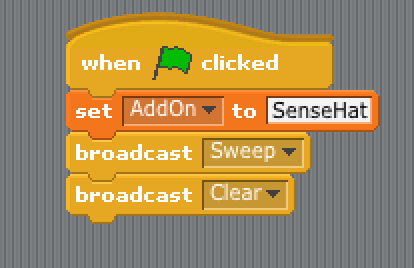
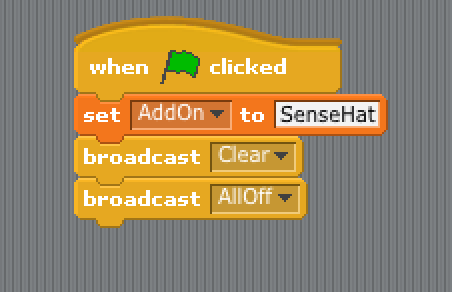
completed the worksheet
Made added all necessary pictures and finished the worksheet aka read.md

Changed region(s): [[0.1449, 0.0299, 0.9275, 0.8358]]

diff --git a/README.md b/README.md
@@ -19,7 +19,7 @@ We won't be using any of the right hand side, with the exception of the flag but
 ## Lets test our sense hat
 Will start of by testing our sense hat to make sure it's been connected alright and it's working fine. By doing this we will also learn how to setup the sense hat on scratch.
 
-1. Click on the Block Palette and select **Control**
+1. Click on the **Block Palette** and select **Control**
 2. Next drag a **When green flag clicked** block and place it on the scripts area in the middle of the screen.
 3. Click on the the Block Palette and select **Vriables**
 ![](pics/clickVarBlock.png)
@@ -33,9 +33,13 @@ Will start of by testing our sense hat to make sure it's been connected alright 
 Congrats You've just set up the sense hat on scratch. You should have something like this on your screen
 ![sense hat setup](pics/senseHatSetup.png)
 
+Lets explain variables real quick. Think of variables as boxes that you put things inside. You can Put in a number or a word so you can use it later.
+In this case we told Scratch that we where using the Sense Hat by giving a variable the word SenseHat.
+Whats inside a variable can be changed at any time with the set **block**
+
 Now lets test the sense hat.
 
-1. Click on the Block Palette and select **Control** again
+1. Click on the **Block Palette** and select **Control** again
 2. This time we are selecting the **broadcast** block and connecting it to the **set** block
 3. Now click on the **little black arrow** at the end of the broadcast block and click on **new...**
 ![Creating a new broadcast](pics/newBroadcast.png)
@@ -46,8 +50,68 @@ Now lets test the sense hat.
 
 But now you see we have a problem. The LEDs are not turning off. This is a problem if we want to do anything with the sense hat's LEDs.
 
-To fix this all we need to do is create a new **broadcast** with the message **Clear**. Look at the previous steps that we used to create the first broadcast. Use those steps to create a new broadcast, but this time give the message the name Clear instead of Sweep.
+To fix this all we need to do is create a new **broadcast** with the message **AllOff**. Look at the previous steps that we used to create the first broadcast. Use those steps to create a new broadcast, but this time give the message the name AllOff instead of Sweep.
 You should have something looking like this:
+
 ![End of sense hat test](pics/endOfTestSenseHat.png)
 
 Now run the program and see how it turns off all the LEDs after they all turn on.
+
+## Lighting up one LED
+For this bit we can re-use some of the most of the last peace of work. All we are going to do is light up one of the LEDs. Lets get right into it than.
+
+1. Drag the last **broadcast** block from the last example so that it's not connected anymore, place it anywhere.
+2. **Right click** the **broadcast** block we just disconnected and than click **delete**
+3. Now click the **broadcast** that still there and make it a **AllOff** message. You should have something like this:
+![Begining of one light](pics/beginingOfLightOneUp.png)
+4. Now we're going to set up 2 new **variables**. One named **x** and the other named **y**, remember we've done this before already. If you're not sure how to do it go back and check on previous steps
+5. Now we are going to **set** the value of **x** and **y** to **0**. You should have something looking like this:
+![Setting up the variables](pics/setVarsUpForLightOne.png)
+6. Now we're going to add a new **broadcast** to the end of it.
+7. Instead of changing the message of the **broadcast** were going to add a couple of **joins** to the mix. Click on **operator** on the **Block Pallett**. Drag the **join inside of the broadcast**.
+8. Name the first block of the **join Pixel**
+9. Drag another **join** block to the end of the previous **join** block
+![double join light one up](pics/doubleJoinLightOne.png)
+10. Now add two more **join** blocks inside that new **join** block. You should have something like this now:
+![quadruple join light one up](pics/quadrupleJoinLightOneUp.png)
+11. Now You should have 4 boxes inside the **join** blocks, two with the word **_'hello'_** written in them and two with the word **_'world'_** written in them. We are going to change that now, the first box with the word **_'hello'_** in should have the variable **x** we created earlier. To do that go into the **Variables** block in the **block Pallett** and drag the little circle with an x inside of it ![x variable](pics/xVar.png) to that first 'hello'
+12. The white box infront of the last one, the first one with the word **_'world'_** in, should have a **comma** instead of the word **_'world'_**  
+13. The next white box should have the variable **y** inside it
+14. And the last box inside all of those joins should have **White** written inside it. It should all look something like this:
+![After we've finished all of those join blocks](pics/joinFinishedLightOneUp.png)
+
+The join block joins words and variable together into one thing. So what we just broadcasted was Pixel 0,0 White. We could have just created a new message saying just that and used that instead. But than if we wanted to change anything we would have to create new messages for each one. By using variables we can change parts of the messages with out having to create new messages all the time
+Now to explain what we just did. The variable x is used to tell scratch how many LED's to left we want to go, the y variable is used to tell scratch how many LEDs down we want to go up by. We just told Scratch that we did not want to go up and that we did not want to go to left which made it turn on the very first LED.
+
+## Creating a galaxy
+Now we are going to learn how to create a galaxy using random numbers.
+
+1. First click and hold on the first set block after the first broadcast from the last example. Drag it so it disconnects from the broadcast. **DO NOT DELETE** we are going to re use it, just put it to the side for now. It should look something like this (your disconnected bit doesn't have to be in the same place as mine)
+![rand galaxy disconnect](pics/randGalxDisconnect.png)
+2. Now click on the **Control** block in the **Block Pallett**. Drag the **repeat** block and connect it to the **broadcast** connected to the green flag. Give it the number **5**. You should have something like this:
+![adding repeat](pics/repeatRandGalx.png)
+3. Now drag the blocks we disconnected earlier into the **repeat** block
+4. Click the **Operator** block in the **Block Pallett** drag the **pick random** block into both of the **set** block inside the repeat. Give the boxes the value of 1 and 5 for each of the **pick random** bloc. Give the boxes the value of 1 and 5 for each of the **pick random** block. It should look something like this:
+![End of rand Galx](pics/endRandGalx.png)
+
+There we have it, we've created a galaxy.
+
+The **pick random** block picks a random number in between the two numbers we told it.
+The **repeat** block repeats whatever is inside it however many times we tell it.
+
+## Using the joystick
+Now we're going to learn how to use the joystick to create new galaxies. 
+Before we start I need to tell you that the joystick on the sense hat is the same as the arrow keys on your keyboard
+Now lets get right to it than.
+
+1. Disconnect the **repeat** block. **Do not delete it** we are going to re-use it later.
+2. Click the **control** block in the **Block Pallett**, drag the **forever** block and connect it to our program. You should have something like this:
+![forever block](pics/foreverBlockSetup.png)
+3. While we are in the **Control** block select the **if** block and place it in the **forver** block
+4. The **if** block has a slot (not the empty space inside it). This is where we put the the **condition** for running the code inside the **if** block. We can find the condition we want in the block **Sensing** inside the **Block Pallett**. Drag and drop the **key pressed** block into the if block slot space. It should look something like this:
+![if key pressed](pics/ifKeyPressed.png)
+5. Make sure the key we are waiting to be pressed is one of the arrow keys, I chose the right arrow key for my example
+6. Now drag the block we preveusly disconnected into the **if** block. It should look something like this:
+![reconnected blocks](pics/reconBlockJoystick.png)
+7. Now for the final stage click the **Control** block in the **Block Pallett**. Select the **wait** block, drag and drop it at the end of the **forever** block (but still inside it). It usually defaults to 1, if it isn't one please put 1 inside it. We are now done. You Should have something looking like this:
+![end program](pics/endProgram.png)
